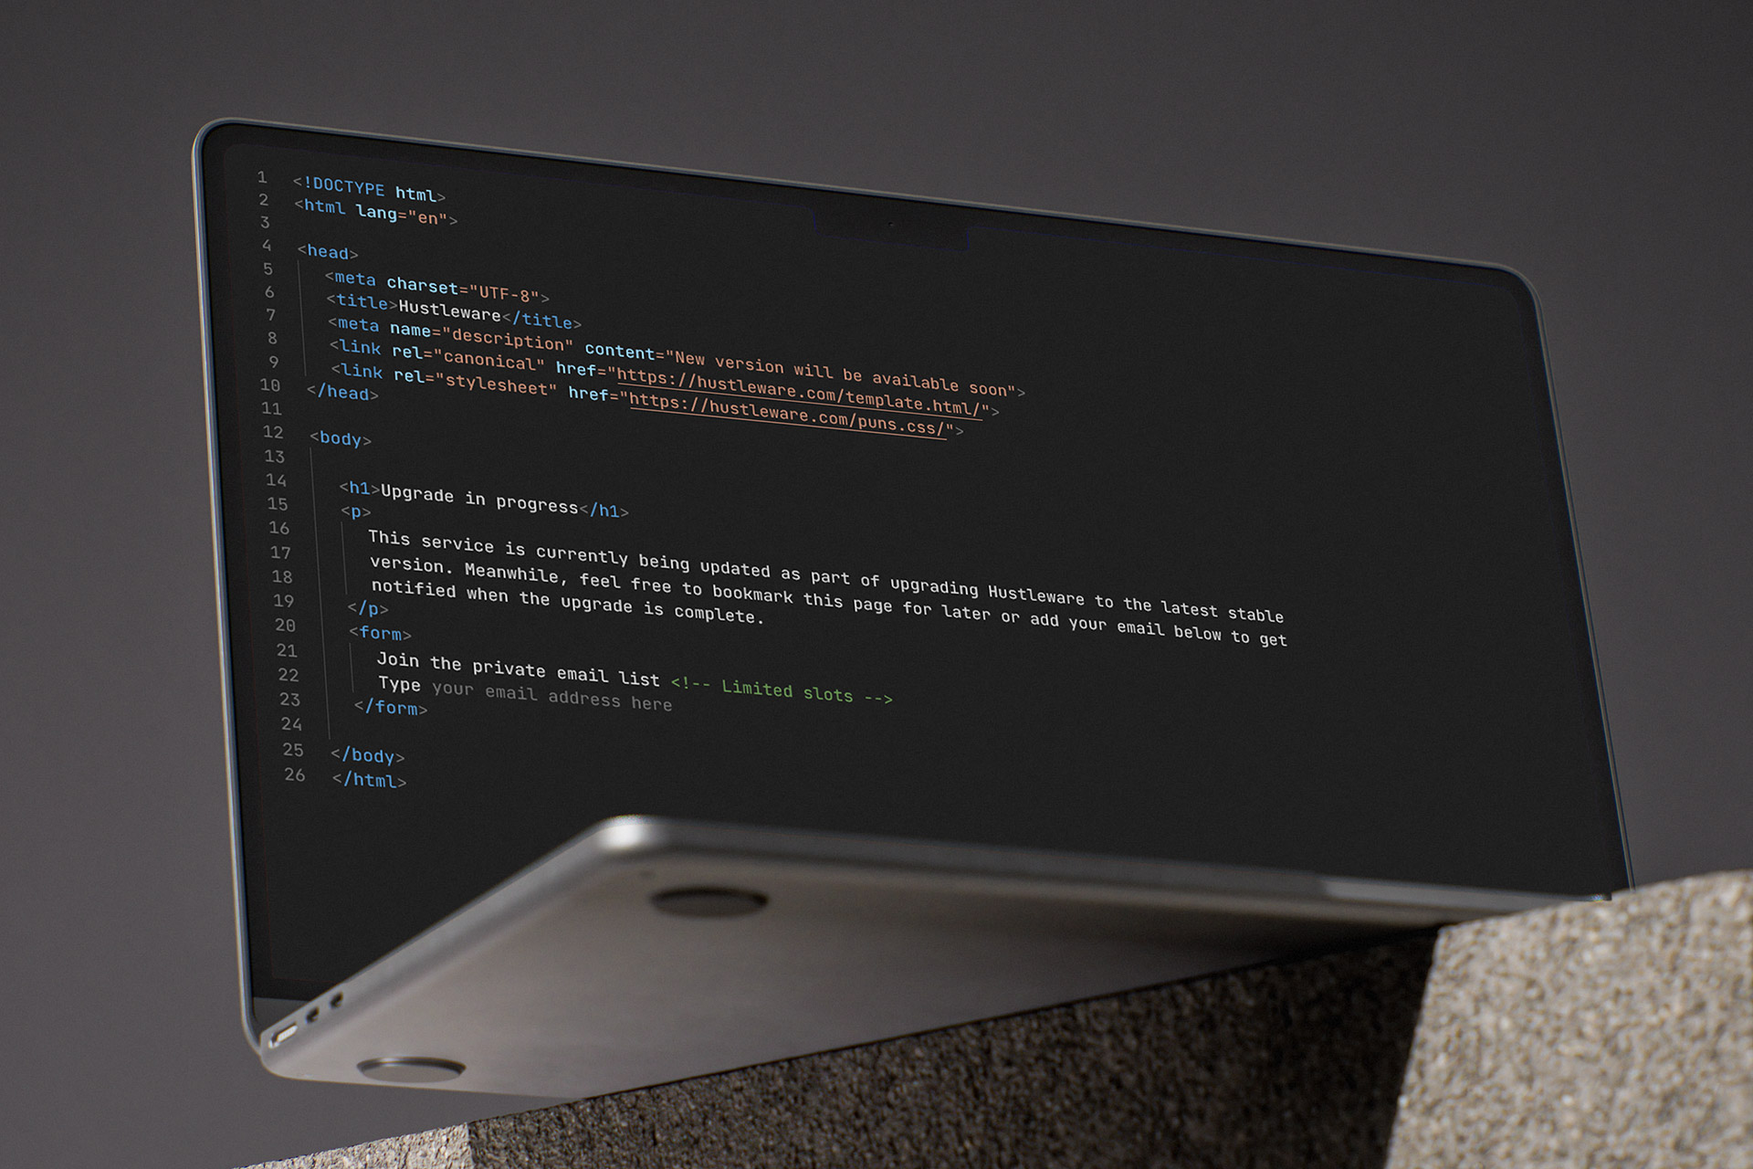
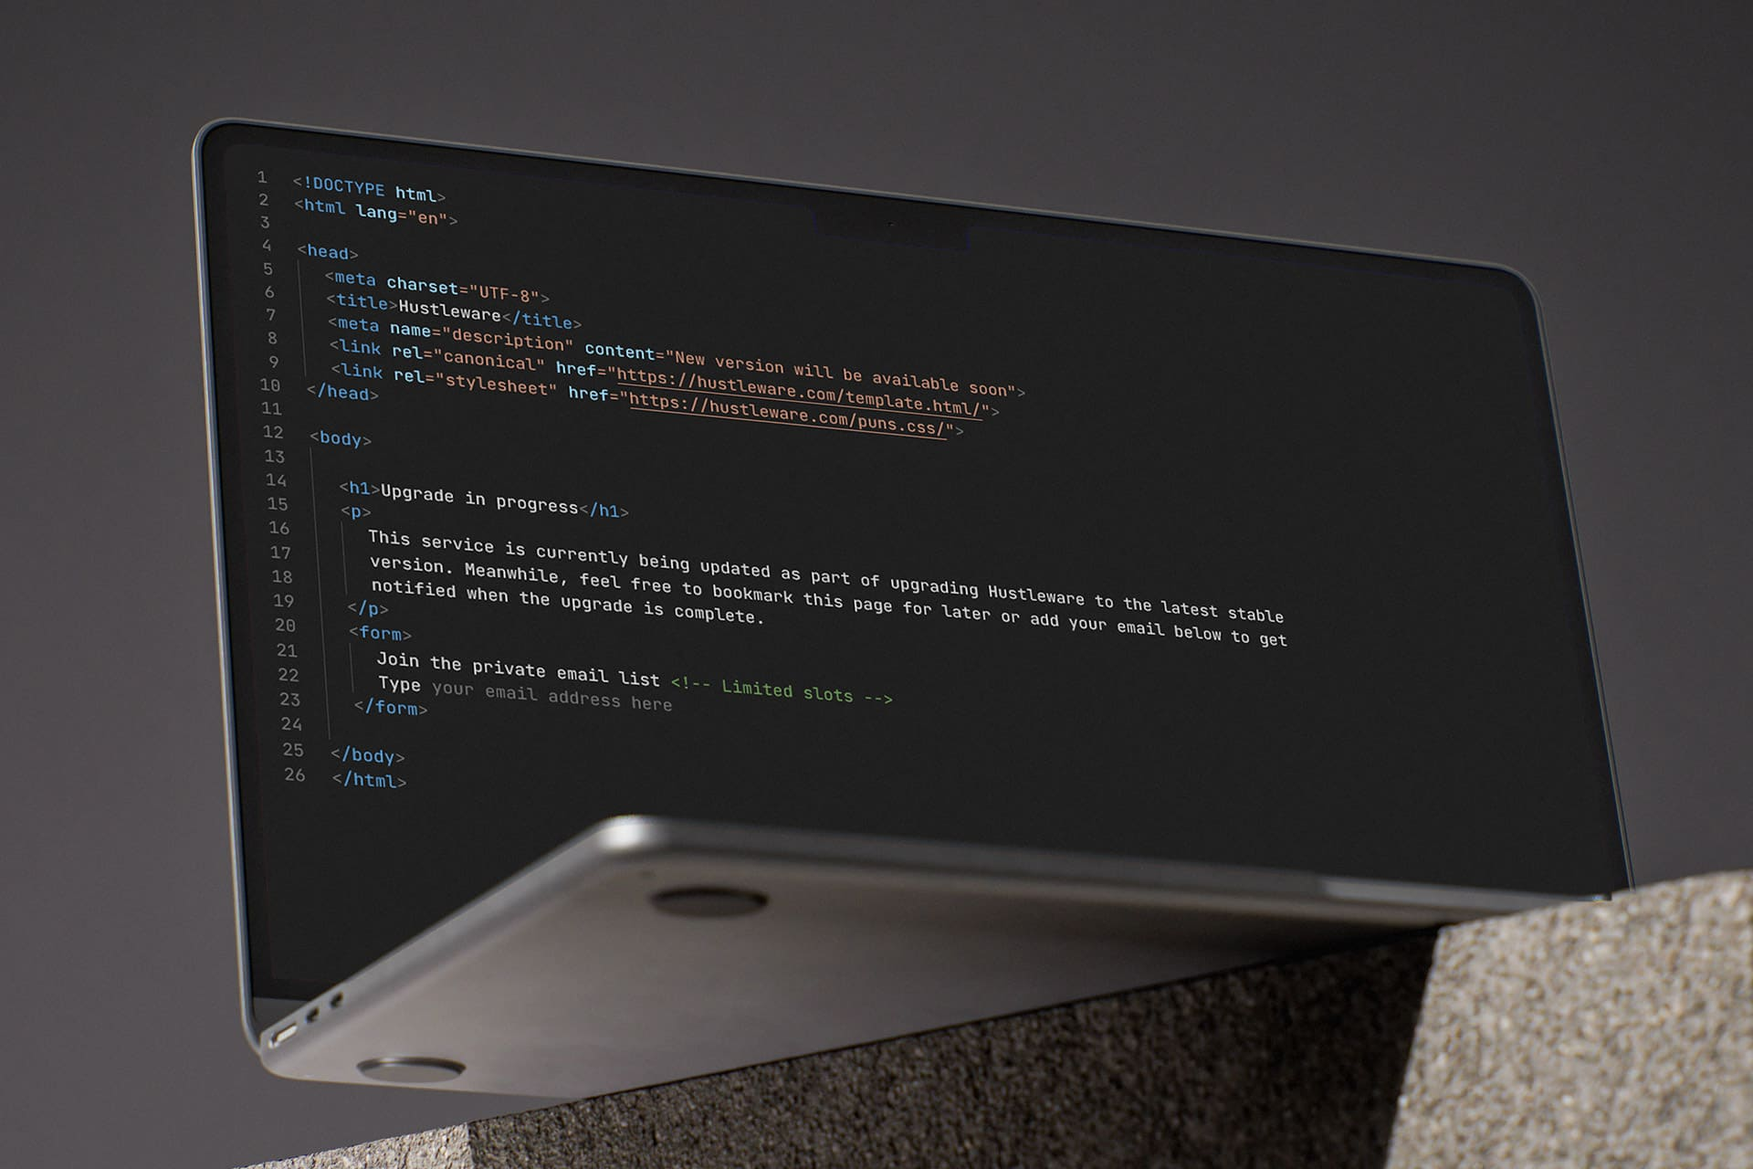
2508170100

diff --git a/index.html b/index.html
@@ -1,72 +1,21 @@
-<!DOCTYPE html>
-<html lang="en">
+<!DOCTYPE HTML>
+<html lang="en-US">
 
 <head>
-  <meta charset="utf-8">
-  <meta name="viewport" content="width=device-width, initial-scale=1">
-  <title>Hustleware</title>
-  <meta name="description" content="Join the private email list.">
-  <meta name="author" content="Hustleware">
-  <meta name="copyright" content="Hustleware">
-  <meta name="robots" content="index, follow">
-  <link rel="canonical" href="https://hustleware.com">
-  <link rel="icon" href="favicon.ico" type="image/x-icon">
-  <link rel="preconnect" href="https://fonts.googleapis.com">
-  <link rel="preconnect" href="https://fonts.gstatic.com" crossorigin>
-  <link href="https://fonts.googleapis.com/css2?family=JetBrains+Mono&display=swap" rel="stylesheet">
-  <link rel="preload" href="https://fonts.googleapis.com/css2?family=JetBrains+Mono&display=swap" as="style">
-  <link rel="stylesheet" href="style.css">
+    <meta charset="UTF-8">
+    <meta http-equiv="refresh" content="3; url=https://hustleware.com/studio">
+    <title>Hustleware</title>
+    <meta name="viewport" content="width=device-width, initial-scale=1">
+    <link rel="preconnect" href="https://fonts.googleapis.com">
+    <link rel="preconnect" href="https://fonts.gstatic.com" crossorigin>
+    <link href="https://fonts.googleapis.com/css2?family=Inter:opsz@14..32&display=swap" rel="stylesheet">
 </head>
 
-<body>
-  <div id="container" class="container">
-    <div id="linecount" class="linecount" data-nosnippet></div>
-    <div id="content" class="content">
-      <span style="color:#569cd6" data-nosnippet=""><span style="color:#707070" data-nosnippet="">&lt;</span>!DOCTYPE<span style="color:#9cdcfe"> html</span><span style="color:#707070" data-nosnippet="">&gt;</span></span><br>
-      <span style="color:#569cd6" data-nosnippet=""><span style="color:#707070" data-nosnippet="">&lt;</span>html<span style="color:#9cdcfe"> lang<span style="color:#ce9178">="en"</span></span><span style="color:#707070" data-nosnippet="">&gt;</span></span><br>
-      <br>
-      <span style="color:#569cd6" data-nosnippet=""><span style="color:#707070" data-nosnippet="">&lt;</span>head<span style="color:#707070" data-nosnippet="">&gt;</span></span><br>
-      <header>
-        <span style="color:#569cd6" data-nosnippet=""><span style="color:#707070" data-nosnippet="">&lt;</span>meta<span style="color:#9cdcfe"> charset<span style="color:#ce9178">="UTF-8"</span></span><span style="color:#707070" data-nosnippet="">&gt;</span></span><br>
-        <span style="color:#569cd6" data-nosnippet=""><span style="color:#707070" data-nosnippet="">&lt;</span>title<span style="color:#707070" data-nosnippet="">&gt;</span></span><h1>Hustleware</h1><span style="color:#569cd6" data-nosnippet=""><span style="color:#707070" data-nosnippet="">&lt;</span>/title<span style="color:#707070" data-nosnippet="">&gt;</span></span><br>
-        <span style="color:#569cd6" data-nosnippet=""><span style="color:#707070" data-nosnippet="">&lt;</span>meta<span style="color:#9cdcfe"> name<span style="color:#ce9178">="description"</span> content<span style="color:#ce9178">="<p>New version will be available soon</p>"</span></span><span style="color:#707070" data-nosnippet="">&gt;</span></span><br>
-        <span style="color:#569cd6" data-nosnippet=""><span style="color:#707070" data-nosnippet="">&lt;</span>link<span style="color:#9cdcfe"> rel<span style="color:#ce9178">="canonical"</span> href<span style="color:#ce9178">=<wbr>"<a href="https://hustleware.com/template.html/">https://hustleware.com/template.html/</a>"</span></span><span style="color:#707070" data-nosnippet="">&gt;</span></span><br>
-        <span style="color:#569cd6" data-nosnippet=""><span style="color:#707070" data-nosnippet="">&lt;</span>link<span style="color:#9cdcfe"> rel<span style="color:#ce9178">="stylesheet"</span> href<span style="color:#ce9178">=<wbr>"<a href="https://hustleware.com/puns.css/">https://hustleware.com/puns.css/</a>"</span></span><span style="color:#707070" data-nosnippet="">&gt;</span></span><br>
-      </header>
-      <span style="color:#569cd6" data-nosnippet=""><span style="color:#707070" data-nosnippet="">&lt;</span>/head<span style="color:#707070" data-nosnippet="">&gt;</span></span><br>
-      <br>
-      <span style="color:#569cd6" data-nosnippet=""><span style="color:#707070" data-nosnippet="">&lt;</span>body<span style="color:#707070" data-nosnippet="">&gt;</span></span><br>
-      <main>
-        <br>
-        <span style="color:#569cd6" data-nosnippet=""><span style="color:#707070" data-nosnippet="">&lt;</span>h1<span style="color:#707070" data-nosnippet="">&gt;</span></span><h2>Upgrade in progress</h2><span style="color:#569cd6" data-nosnippet=""><span style="color:#707070" data-nosnippet="">&lt;</span>/h1<span style="color:#707070" data-nosnippet="">&gt;</span></span><br>
-        <span style="color:#569cd6" data-nosnippet=""><span style="color:#707070" data-nosnippet="">&lt;</span>p<span style="color:#707070" data-nosnippet="">&gt;</span></span><br>
-        <p class="tab">This service is currently being updated as part of upgrading Hustleware to the latest stable version. Meanwhile, feel free to bookmark this page for later or add your email below to get notified when the upgrade is complete.</p><br>
-        <span style="color:#569cd6" data-nosnippet=""><span style="color:#707070" data-nosnippet="">&lt;</span>/p<span style="color:#707070" data-nosnippet="">&gt;</span></span><br>
-        <span style="color:#569cd6" data-nosnippet=""><span style="color:#707070" data-nosnippet="">&lt;</span>form<span style="color:#707070" data-nosnippet="">&gt;</span></span><br>
-        <div id="mc_embed_signup">
-          <form id="form" name="form" class="tab" method="POST" action="https://hustleware.us16.list-manage.com/subscribe/post?u=31df9b1d191db68bffca71886&amp;id=14d868d464&amp;f_id=00cdc2e1f0" onsubmit="submitForm();"  target="_self" novalidate="">
-            <label id="label">
-              <p>Join the private email list</p>
-              <p class="type"><span style="color:#6A9955">&lt;!-- Limited slots --&gt;</span></p>
-            </label><br>
-            <span id="text">Type</span> <input id="mce-EMAIL" type="email" class="expanding required email" name="EMAIL" autocomplete="off" value="" placeholder="your email address here" minlength="8" maxlength="320" onkeydown="validateEmail()" required=""><br>
-            <span id="loading" class="loading hide">Please wait</span>
-            <div aria-hidden="true" style="position: absolute; left: -5000px;">
-              <input type="text" name="b_31df9b1d191db68bffca71886_14d868d464" tabindex="-1" value="">
-            </div>
-            <input type="submit" name="subscribe" id="mc-embedded-subscribe" hidden="">
-            <noscript>Enter to submit</noscript>
-          </form>
-        </div>
-        <span style="color:#569cd6" data-nosnippet=""><span style="color:#707070" data-nosnippet="">&lt;</span>/form<span style="color:#707070" data-nosnippet="">&gt;</span></span><br>
-        <br>
-      </main>
-      <span style="color:#569cd6" data-nosnippet=""><span style="color:#707070" data-nosnippet="">&lt;</span>/body<span style="color:#707070" data-nosnippet="">&gt;</span></span><br>
-      <span style="color:#569cd6" data-nosnippet=""><span style="color:#707070" data-nosnippet="">&lt;</span>/html<span style="color:#707070" data-nosnippet="">&gt;</span></span>
+<body style="margin: 0; padding: 0; background-color: #0A0908; color: white; font-family: 'Inter', sans-serif; font-size: 16px;">
+    <div style="display: flex; align-items: center; justify-content: center; height: 100vh;">
+        <a href="https://hustleware.com/studio" style="color: white; text-decoration: none;">
+            Introducing Hustleware Studio
+        </a>
     </div>
-  </div>
-
-  <script src="script.js"></script>
 </body>
-
 </html>

diff --git a/studio/index.html b/studio/index.html
@@ -5,24 +5,24 @@
 	<meta charset="utf-8">
 	<meta name="viewport" content="width=device-width, initial-scale=1, shrink-to-fit=no">
 	<!-- Primary Meta Tags -->
-	<title>Hustleware Studio — Unlimited Design Subscription in the Philippines</title>
-	<meta name="title" content="Hustleware Studio — Unlimited Design Subscription in the Philippines" />
+	<title>Hustleware Studio — Limitless Design Subscription in the Philippines</title>
+	<meta name="title" content="Hustleware Studio — Limitless Design Subscription in the Philippines" />
 	<meta name="description"
-		content="Hustleware Studio is a limitless subscription-based design service for startup founders, agency owners, and busy entrepreneurs worldwide. Limited slots available." />
+		content="Hustleware Studio is a subscription-based design service for startup founders, agency owners, and busy entrepreneurs worldwide. Secure your slot today." />
 	<meta name="copyright" content="John Monte" />
 	<!-- Open Graph / Facebook -->
 	<meta property="og:type" content="website" />
 	<meta property="og:url" content="https://hustleware.com" />
-	<meta property="og:title" content="Hustleware Studio — Unlimited Design Subscription in the Philippines" />
+	<meta property="og:title" content="Hustleware Studio — Limitless Design Subscription in the Philippines" />
 	<meta property="og:description"
-		content="Hustleware Studio is a limitless subscription-based design service for startup founders, agency owners, and busy entrepreneurs worldwide. Limited slots available." />
+		content="Hustleware Studio is a subscription-based design service for startup founders, agency owners, and busy entrepreneurs worldwide. Secure your slot today." />
 	<meta property="og:image" content="https://hustleware.com/assets/images/social.jpg" />
 	<!-- Twitter -->
 	<meta property="twitter:card" content="summary_large_image" />
 	<meta property="twitter:url" content="https://hustleware.com" />
-	<meta property="twitter:title" content="Hustleware Studio — Unlimited Design Subscription in the Philippines" />
+	<meta property="twitter:title" content="Hustleware Studio — Limitless Design Subscription in the Philippines" />
 	<meta property="twitter:description"
-		content="Hustleware Studio is a limitless subscription-based design service for startup founders, agency owners, and busy entrepreneurs worldwide. Limited slots available." />
+		content="Hustleware Studio is a subscription-based design service for startup founders, agency owners, and busy entrepreneurs worldwide. Secure your slot today." />
 	<meta property="twitter:image" content="https://hustleware.com/assets/images/social.jpg" />
 	<!-- Favicon -->
 	<link href="assets/images/favicon.png" rel="shortcut icon">
@@ -117,7 +117,7 @@
 							<p class="uppercase letter-spacing-1 mono">Break the limits <span
 									class="d-none d-sm-inline">without breaking the bank</span></p>
 						</div>
-						<h1 class="display-4 font-weight-bolder margin-0">Unlimited design subscription and resources
+						<h1 class="display-4 font-weight-bolder margin-0">Limitless design subscription and resources
 							for people who hustle</h1>
 					</div>
 				</div><!-- end row -->
@@ -127,8 +127,9 @@
 							<p class="font-large column-count-2">Hustleware Studio is the independent design and
 								engineering practice of John Monte, an interdisciplinary designer based in the
 								Philippines, collaborating globally with early-stage founders, agency owners, and
-								relentless entrepreneurs to get more things done without losing an arm, a leg, and one
-								kidney. Limited slots available.</p>
+								relentless entrepreneurs to get more things done and stay on the grind — without losing
+								an arm, a leg, and one
+								kidney.</p>
 							<p class="line-height-0 margin-top-40"><a
 									class="button button button-md button-radius button-fancy-3-outline-white w-193px"
 									href="#services">Learn more </a></p>
@@ -159,15 +160,18 @@
 							</div>
 						</div>
 						<div class="product-title">
-							<h6 class="font-large font-weight-normal truncate"><a href="https://hustleware.gumroad.com/l/cbobgq/932PMSY"
-									target="_blank">card.json &mdash; Business Card Template</a></h6>
+							<h6 class="font-large font-weight-normal truncate"><a
+									href="https://hustleware.gumroad.com/l/cbobgq/932PMSY" target="_blank">card.json
+									&mdash; Business Card Template</a></h6>
 							<div class="price-and-cart">
 								<div class="price manrope">
 									<del>$6</del>
 									<span>$0</span>
 								</div>
 								<div class="add-to-cart">
-									<a class="button-text-1 font-large" href="https://hustleware.gumroad.com/l/cbobgq/932PMSY" target="_blank">Download</a>
+									<a class="button-text-1 font-large"
+										href="https://hustleware.gumroad.com/l/cbobgq/932PMSY"
+										target="_blank">Download</a>
 								</div>
 							</div>
 						</div>
@@ -186,7 +190,9 @@
 							</div>
 						</div>
 						<div class="product-title">
-							<h6 class="font-large font-weight-normal truncate"><a href="https://hustleware.gumroad.com/l/ozolzh/VBKI60U" target="_blank">template.html &mdash;
+							<h6 class="font-large font-weight-normal truncate"><a
+									href="https://hustleware.gumroad.com/l/ozolzh/VBKI60U" target="_blank">template.html
+									&mdash;
 									Coming Soon Page Template</a></h6>
 							<div class="price-and-cart">
 								<div class="price manrope">
@@ -194,7 +200,9 @@
 									<span>$6</span>
 								</div>
 								<div class="add-to-cart">
-									<a class="button-text-1 font-large" href="https://hustleware.gumroad.com/l/ozolzh/VBKI60U" target="_blank">Download</a>
+									<a class="button-text-1 font-large"
+										href="https://hustleware.gumroad.com/l/ozolzh/VBKI60U"
+										target="_blank">Download</a>
 								</div>
 							</div>
 						</div>
@@ -331,7 +339,7 @@
 									<div class="f-box-icon">
 										<img src="assets/images/all_inclusive_FILL0_wght200_GRAD0_opsz48.svg">
 									</div>
-									<h3 class="h4 font-weight-bold">Limitless design</h3>
+									<h3 class="h4 font-weight-bold">Endless design</h3>
 									<p class="font-large">No cap. Subscribe and request as many designs as you like.</p>
 								</div>
 							</div>
@@ -438,7 +446,7 @@
 										<img src="assets/images/event_seat_FILL0_wght200_GRAD0_opsz48.svg">
 									</div>
 									<h3 class="h4 font-weight-bold">First-class seats</h3>
-									<p class="font-large">Subscription is limited to a select roster of clients at a
+									<p class="font-large">Subscription is restricted to a select roster of clients at a
 										time.</p>
 								</div>
 							</div>
@@ -506,7 +514,7 @@
 						<h2 class="display-5 line-height-130 font-weight-bolder margin-bottom-40">Plans to help you
 							outhustle your competition without overspending</h2>
 						<div class="margin-bottom-60">
-							<p class="font-large">No headaches. No lock-in contracts. Just straight-up value
+							<p class="font-large">No headaches. No surprises. Just straight-up value
 								that lets you win
 								bigger for less.</p>
 						</div>

diff --git a/template.html/index.html b/template.html/index.html
@@ -11,12 +11,12 @@
   <meta name="author" content="Hustleware">
   <meta name="copyright" content="Hustleware">
   <link rel="canonical" href="https://hustleware.com/template.html/">
-  <link rel="icon" href="../favicon.ico" type="image/x-icon">
+  <link rel="icon" href="favicon.ico" type="image/x-icon">
   <link rel="preconnect" href="https://fonts.googleapis.com">
   <link rel="preconnect" href="https://fonts.gstatic.com" crossorigin>
   <link href="https://fonts.googleapis.com/css2?family=JetBrains+Mono&display=swap" rel="stylesheet">
   <link rel="preload" href="https://fonts.googleapis.com/css2?family=JetBrains+Mono&display=swap" as="style">
-  <link rel="stylesheet" href="../style.css">
+  <link rel="stylesheet" href="style.css">
 </head>
 
 <body>
@@ -30,7 +30,7 @@
       <span style="color:#569cd6" data-nosnippet=""><span style="color:#707070" data-nosnippet="">&lt;</span>head<span style="color:#707070" data-nosnippet="">&gt;</span></span><br>
       <header>
         <span style="color:#569cd6" data-nosnippet=""><span style="color:#707070" data-nosnippet="">&lt;</span>meta<span style="color:#9cdcfe"> charset<span style="color:#ce9178">="UTF-8"</span></span><span style="color:#707070" data-nosnippet="">&gt;</span></span><br>
-        <span style="color:#569cd6" data-nosnippet=""><span style="color:#707070" data-nosnippet="">&lt;</span>title<span style="color:#707070" data-nosnippet="">&gt;</span></span><h1>template.html</h1><span style="color:#569cd6" data-nosnippet=""><span style="color:#707070" data-nosnippet="">&lt;</span>/title<span style="color:#707070" data-nosnippet="">&gt;</span></span><br>
+        <span style="color:#569cd6" data-nosnippet=""><span style="color:#707070" data-nosnippet="">&lt;</span>title<span style="color:#707070" data-nosnippet="">&gt;</span></span><h1>template.html demo</h1><span style="color:#569cd6" data-nosnippet=""><span style="color:#707070" data-nosnippet="">&lt;</span>/title<span style="color:#707070" data-nosnippet="">&gt;</span></span><br>
         <span style="color:#569cd6" data-nosnippet=""><span style="color:#707070" data-nosnippet="">&lt;</span>meta<span style="color:#9cdcfe"> name<span style="color:#ce9178">="description"</span> content<span style="color:#ce9178">="<p>An HTML template that displays HTML code on an HTML page.</p>"</span></span><span style="color:#707070" data-nosnippet="">&gt;</span></span><br>
         <span style="color:#569cd6" data-nosnippet=""><span style="color:#707070" data-nosnippet="">&lt;</span>link<span style="color:#9cdcfe"> rel<span style="color:#ce9178">="canonical"</span> href<span style="color:#ce9178">=<wbr>"<a href="https://hustleware.com/template.html/">https://hustleware.com/template.html/</a>"</span></span><span style="color:#707070" data-nosnippet="">&gt;</span></span><br>
         <span style="color:#569cd6" data-nosnippet=""><span style="color:#707070" data-nosnippet="">&lt;</span>link<span style="color:#9cdcfe"> rel<span style="color:#ce9178">="stylesheet"</span> href<span style="color:#ce9178">=<wbr>"<a href="https://hustleware.com/puns.css/">https://hustleware.com/puns.css/</a>"</span></span><span style="color:#707070" data-nosnippet="">&gt;</span></span><br>
@@ -40,16 +40,16 @@
       <span style="color:#569cd6" data-nosnippet=""><span style="color:#707070" data-nosnippet="">&lt;</span>body<span style="color:#707070" data-nosnippet="">&gt;</span></span><br>
       <main>
         <br>
-        <span style="color:#569cd6" data-nosnippet=""><span style="color:#707070" data-nosnippet="">&lt;</span>h1<span style="color:#707070" data-nosnippet="">&gt;</span></span><h2>Coming soon to a browser near you</h2><span style="color:#569cd6" data-nosnippet=""><span style="color:#707070" data-nosnippet="">&lt;</span>/h1<span style="color:#707070" data-nosnippet="">&gt;</span></span><br>
+        <span style="color:#569cd6" data-nosnippet=""><span style="color:#707070" data-nosnippet="">&lt;</span>h1<span style="color:#707070" data-nosnippet="">&gt;</span></span><h2>Upgrade in progress</h2><span style="color:#569cd6" data-nosnippet=""><span style="color:#707070" data-nosnippet="">&lt;</span>/h1<span style="color:#707070" data-nosnippet="">&gt;</span></span><br>
         <span style="color:#569cd6" data-nosnippet=""><span style="color:#707070" data-nosnippet="">&lt;</span>p<span style="color:#707070" data-nosnippet="">&gt;</span></span><br>
-        <p class="tab">There’s no better way to show that your website is under construction than by displaying it in its rawest form—HTML. Easily showcase your code with automatic syntax highlighting and line numbering for improved readability and visual appeal.</p><br>
+        <p class="tab">This service is currently being updated as part of upgrading the website to the latest stable version. Meanwhile, feel free to bookmark this page for later or add your email below to get notified when the upgrade is complete.</p><br>
         <span style="color:#569cd6" data-nosnippet=""><span style="color:#707070" data-nosnippet="">&lt;</span>/p<span style="color:#707070" data-nosnippet="">&gt;</span></span><br>
         <span style="color:#569cd6" data-nosnippet=""><span style="color:#707070" data-nosnippet="">&lt;</span>form<span style="color:#707070" data-nosnippet="">&gt;</span></span><br>
         <div id="mc_embed_signup">
           <form id="form" name="form" class="tab" method="POST" action="https://hustleware.us16.list-manage.com/subscribe/post?u=31df9b1d191db68bffca71886&amp;id=14d868d464&amp;f_id=00cdc2e1f0" onsubmit="submitForm();"  target="_self" novalidate="">
             <label id="label">
-              <p>Join the private email list</p>
-              <p class="type"><span style="color:#6A9955">&lt;!-- Limited slots --&gt;</span></p>
+              <p>Join the mailing list</p>
+              <p class="type"><span style="color:#6A9955">&lt;!-- Dont miss out --&gt;</span></p>
             </label><br>
             <span id="text">Type</span> <input id="mce-EMAIL" type="email" class="expanding required email" name="EMAIL" autocomplete="off" value="" placeholder="your email address here" minlength="8" maxlength="320" onkeydown="validateEmail()" required=""><br>
             <span id="loading" class="loading hide">Please wait</span>

diff --git a/studio/assets/css/style.css b/studio/assets/css/style.css
@@ -1005,6 +1005,12 @@ div[class^="bg-dark"] .f-box.style-2:hover, div[class*=" bg-dark"] .f-box.style-
     padding: 0 50px;
 }
 
+@media (max-width: 992px) {
+    .footer .logo {
+      padding: 0 30px;
+    }
+}
+
 @media (max-width: 1280px) {
     .footer .logo {
         max-width: 1180px;
